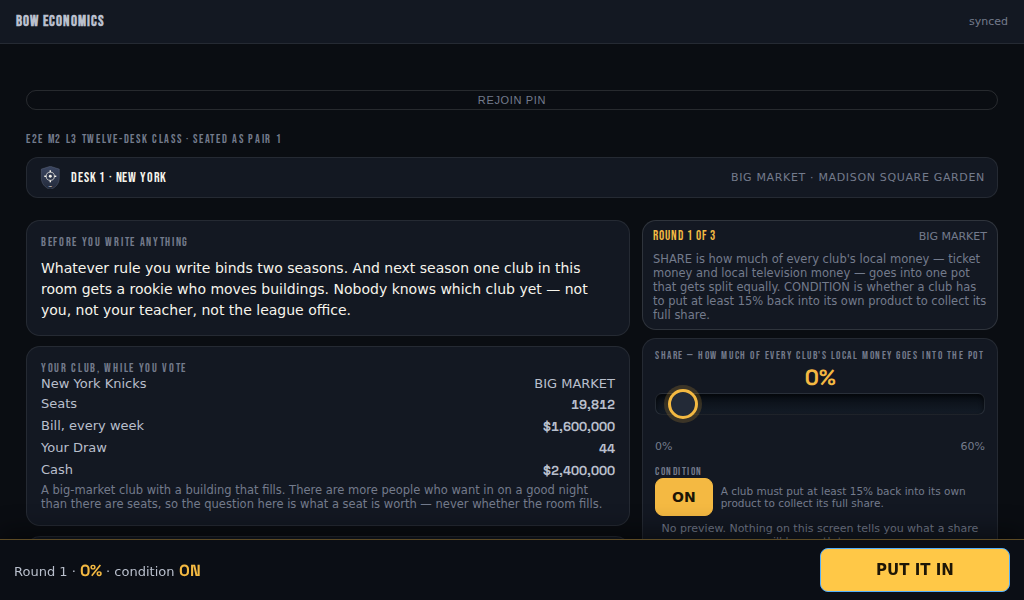
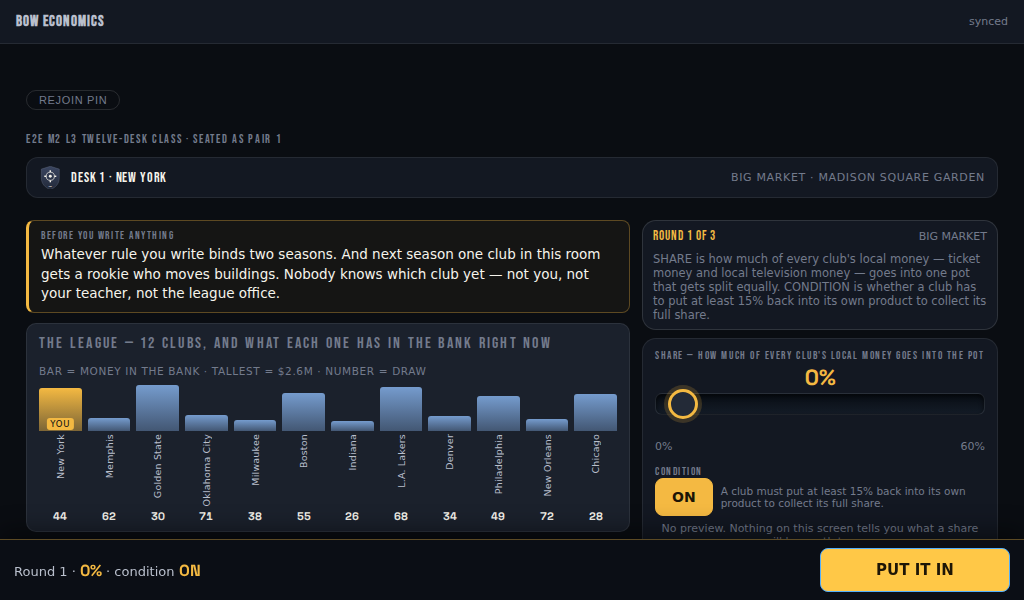
W6/RC3: give L3 the league it is legislating for
The module finale's signature decision — how much of every club's money goes
into a shared pot — was cast while looking at four paragraphs of prose, a
five-row facts table and a slider. The twelve unequal franchises the rule is
ABOUT were behind a collapsed <details>, which in a live class means invisible.
ADOPT_COPY tells the room "the pot is the big markets' money"; nothing on the
screen showed them that.

THE LEAGUE FLOOR now opens the vote screen: every club's opening bank on one
baseline, this desk's own club in gold, full club names rotated so none of them
truncate. Two encodings, both labelled and both straight off state — bar height
is cash, the numeral is Draw — with the tallest bar's value printed so the axis
is not a mystery.

What it does NOT draw is seats. The buildings run 16,867 to 20,917, a 24%
spread that would render as twelve near-identical shapes and teach nothing; the
inequality this room argues about is money, and the opening banks run 5x. Seat
counts would have been decoration pretending to be evidence.

Three defects found and fixed while building it:

- The YOU badge was an extra row on one column only. With the floor bottom-
  aligned that lifted this desk's own club clear of everyone else's baseline and
  drew $2.4M taller than the $2.6M beside it — visual drama misrepresenting
  magnitude, on the student's own club. A marker may never move the thing it
  marks. The badge is now painted inside the track.
[…]

Changed region(s): [[0.0, 0.36, 0.625, 0.87], [0.0312, 0.15, 0.125, 0.18], [0.4688, 0.15, 0.5312, 0.18]]

diff --git a/runtime/src/modules/writeTheRule.ts b/runtime/src/modules/writeTheRule.ts
@@ -213,6 +213,10 @@ export type ClubDef = {
   readonly capacity: number;
   /** BC-3: the season stamp travels with the seat count wherever it prints. */
   readonly capacityNote: string;
+  /** The league's own three-letter code. The league floor draws twelve clubs in
+   *  roughly 44px each; "New York" and "New Orleans" both truncate to "New …"
+   *  there, which is worse than useless in a room that has to tell them apart. */
+  readonly code: string;
   readonly profileId: MarketId;
   readonly startDraw: number;
   readonly startCash: number;
@@ -231,26 +235,26 @@ export type ClubDef = {
  * own numbers, which is the whole point of the seed.
  */
 export const CLUBS: readonly ClubDef[] = [
-  { name: "New York Knicks", short: "New York", building: "Madison Square Garden", capacity: 19_812, capacityNote: "listed basketball capacity · 2025-26", profileId: "new-york", startDraw: 44, startCash: 2_400_000, identityLine: "The biggest market in American sports, and the league's biggest gate — about $193M in gate receipts in 2024-25, a franchise record and the largest in the NBA." },
-  { name: "Memphis Grizzlies", short: "Memphis", building: "FedExForum", capacity: 17_794, capacityNote: "modeled seat count · published figures range 16,667-18,119", profileId: "memphis", startDraw: 62, startCash: 700_000, identityLine: "One of the league's smallest markets. In the leaked 2016-17 league year its local media deal was worth under $10M a year, against about $149M for the Lakers — and it received about $32M in revenue sharing, the most in the league." },
-  { name: "Golden State Warriors", short: "Golden State", building: "Chase Center", capacity: 18_064, capacityNote: "listed basketball capacity · 2025-26", profileId: "golden-state", startDraw: 30, startCash: 2_600_000, identityLine: "Paid for Chase Center itself — about $1.4B, privately financed, opened 2019 — and owns it, so it keeps the concert money and the real estate too. $833M of revenue in 2024-25, the highest in the NBA." },
-  { name: "Oklahoma City Thunder", short: "Oklahoma City", building: "Paycom Center", capacity: 18_203, capacityNote: "listed basketball capacity · 2025-26", profileId: "oklahoma-city", startDraw: 71, startCash: 900_000, identityLine: "One of the league's smallest markets — and the 2025 champions, 4-3 over Indiana." },
-  { name: "Milwaukee Bucks", short: "Milwaukee", building: "Fiserv Forum", capacity: 17_341, capacityNote: "listed basketball capacity · 2025-26", profileId: "memphis", startDraw: 38, startCash: 620_000, identityLine: "In 2015 Wisconsin approved about $250M of public money toward Fiserv Forum under an explicit relocation threat. The Bucks stayed, and won the 2021 title." },
-  { name: "Boston Celtics", short: "Boston", building: "TD Garden", capacity: 19_156, capacityNote: "listed basketball capacity · 2025-26", profileId: "new-york", startDraw: 55, startCash: 2_100_000, identityLine: "In June 2025, a year after the 2024 title, Boston faced a projected salary-and-tax bill reported north of $500M under the second-apron rules — and traded two starters inside 24 hours." },
-  { name: "Indiana Pacers", short: "Indiana", building: "Gainbridge Fieldhouse", capacity: 17_274, capacityNote: "listed basketball capacity · 2025-26", profileId: "memphis", startDraw: 26, startCash: 540_000 },
-  { name: "Los Angeles Lakers", short: "L.A. Lakers", building: "Crypto.com Arena", capacity: 18_997, capacityNote: "listed basketball capacity · 2025-26", profileId: "golden-state", startDraw: 68, startCash: 2_500_000, identityLine: "One of the biggest markets in the league — and it does NOT own its building: AEG owns and operates Crypto.com Arena, and the Lakers are tenants on a lease running to 2041." },
-  { name: "Denver Nuggets", short: "Denver", building: "Ball Arena", capacity: 19_520, capacityNote: "listed basketball capacity · 2025-26", profileId: "oklahoma-city", startDraw: 34, startCash: 810_000 },
-  { name: "Philadelphia 76ers", short: "Philadelphia", building: "Xfinity Mobile Arena", capacity: 20_478, capacityNote: "listed basketball capacity · 2025-26", profileId: "new-york", startDraw: 49, startCash: 1_950_000 },
-  { name: "New Orleans Pelicans", short: "New Orleans", building: "Smoothie King Center", capacity: 16_867, capacityNote: "listed basketball capacity · 2025-26", profileId: "memphis", startDraw: 72, startCash: 660_000 },
-  { name: "Chicago Bulls", short: "Chicago", building: "United Center", capacity: 20_917, capacityNote: "listed basketball capacity · 2025-26", profileId: "new-york", startDraw: 28, startCash: 2_050_000 },
-  { name: "Sacramento Kings", short: "Sacramento", building: "Golden 1 Center", capacity: 17_608, capacityNote: "listed basketball capacity · 2025-26", profileId: "oklahoma-city", startDraw: 58, startCash: 870_000, identityLine: "On May 15, 2013 the league's owners voted 22-8 to deny a sale that would have moved this club to Seattle. Golden 1 Center opened downtown in 2016." },
-  { name: "Toronto Raptors", short: "Toronto", building: "Scotiabank Arena", capacity: 19_800, capacityNote: "listed basketball capacity · 2025-26", profileId: "golden-state", startDraw: 40, startCash: 2_200_000 },
-  { name: "Utah Jazz", short: "Utah", building: "Delta Center", capacity: 18_206, capacityNote: "listed basketball capacity · 2025-26", profileId: "oklahoma-city", startDraw: 65, startCash: 840_000 },
-  { name: "Miami Heat", short: "Miami", building: "Kaseya Center", capacity: 19_600, capacityNote: "listed basketball capacity · 2025-26", profileId: "golden-state", startDraw: 33, startCash: 2_150_000 },
-  { name: "Cleveland Cavaliers", short: "Cleveland", building: "Rocket Arena", capacity: 19_432, capacityNote: "listed basketball capacity · 2025-26", profileId: "memphis", startDraw: 51, startCash: 700_000, identityLine: "LeBron James left in 2010 and this club's ticket demand and franchise value cratered; his July 2014 return sold out the season-ticket base within hours." },
-  { name: "Portland Trail Blazers", short: "Portland", building: "Moda Center", capacity: 19_393, capacityNote: "listed basketball capacity · 2025-26", profileId: "oklahoma-city", startDraw: 36, startCash: 790_000 },
-  { name: "Orlando Magic", short: "Orlando", building: "Kia Center", capacity: 18_846, capacityNote: "listed basketball capacity · 2025-26", profileId: "memphis", startDraw: 60, startCash: 680_000 },
-  { name: "Detroit Pistons", short: "Detroit", building: "Little Caesars Arena", capacity: 20_332, capacityNote: "listed basketball capacity · 2025-26", profileId: "new-york", startDraw: 31, startCash: 1_900_000 },
+  { name: "New York Knicks", code: "NYK", short: "New York", building: "Madison Square Garden", capacity: 19_812, capacityNote: "listed basketball capacity · 2025-26", profileId: "new-york", startDraw: 44, startCash: 2_400_000, identityLine: "The biggest market in American sports, and the league's biggest gate — about $193M in gate receipts in 2024-25, a franchise record and the largest in the NBA." },
+  { name: "Memphis Grizzlies", code: "MEM", short: "Memphis", building: "FedExForum", capacity: 17_794, capacityNote: "modeled seat count · published figures range 16,667-18,119", profileId: "memphis", startDraw: 62, startCash: 700_000, identityLine: "One of the league's smallest markets. In the leaked 2016-17 league year its local media deal was worth under $10M a year, against about $149M for the Lakers — and it received about $32M in revenue sharing, the most in the league." },
+  { name: "Golden State Warriors", code: "GSW", short: "Golden State", building: "Chase Center", capacity: 18_064, capacityNote: "listed basketball capacity · 2025-26", profileId: "golden-state", startDraw: 30, startCash: 2_600_000, identityLine: "Paid for Chase Center itself — about $1.4B, privately financed, opened 2019 — and owns it, so it keeps the concert money and the real estate too. $833M of revenue in 2024-25, the highest in the NBA." },
+  { name: "Oklahoma City Thunder", code: "OKC", short: "Oklahoma City", building: "Paycom Center", capacity: 18_203, capacityNote: "listed basketball capacity · 2025-26", profileId: "oklahoma-city", startDraw: 71, startCash: 900_000, identityLine: "One of the league's smallest markets — and the 2025 champions, 4-3 over Indiana." },
+  { name: "Milwaukee Bucks", code: "MIL", short: "Milwaukee", building: "Fiserv Forum", capacity: 17_341, capacityNote: "listed basketball capacity · 2025-26", profileId: "memphis", startDraw: 38, startCash: 620_000, identityLine: "In 2015 Wisconsin approved about $250M of public money toward Fiserv Forum under an explicit relocation threat. The Bucks stayed, and won the 2021 title." },
+  { name: "Boston Celtics", code: "BOS", short: "Boston", building: "TD Garden", capacity: 19_156, capacityNote: "listed basketball capacity · 2025-26", profileId: "new-york", startDraw: 55, startCash: 2_100_000, identityLine: "In June 2025, a year after the 2024 title, Boston faced a projected salary-and-tax bill reported north of $500M under the second-apron rules — and traded two starters inside 24 hours." },
+  { name: "Indiana Pacers", code: "IND", short: "Indiana", building: "Gainbridge Fieldhouse", capacity: 17_274, capacityNote: "listed basketball capacity · 2025-26", profileId: "memphis", startDraw: 26, startCash: 540_000 },
+  { name: "Los Angeles Lakers", code: "LAL", short: "L.A. Lakers", building: "Crypto.com Arena", capacity: 18_997, capacityNote: "listed basketball capacity · 2025-26", profileId: "golden-state", startDraw: 68, startCash: 2_500_000, identityLine: "One of the biggest markets in the league — and it does NOT own its building: AEG owns and operates Crypto.com Arena, and the Lakers are tenants on a lease running to 2041." },
+  { name: "Denver Nuggets", code: "DEN", short: "Denver", building: "Ball Arena", capacity: 19_520, capacityNote: "listed basketball capacity · 2025-26", profileId: "oklahoma-city", startDraw: 34, startCash: 810_000 },
+  { name: "Philadelphia 76ers", code: "PHI", short: "Philadelphia", building: "Xfinity Mobile Arena", capacity: 20_478, capacityNote: "listed basketball capacity · 2025-26", profileId: "new-york", startDraw: 49, startCash: 1_950_000 },
+  { name: "New Orleans Pelicans", code: "NOP", short: "New Orleans", building: "Smoothie King Center", capacity: 16_867, capacityNote: "listed basketball capacity · 2025-26", profileId: "memphis", startDraw: 72, startCash: 660_000 },
+  { name: "Chicago Bulls", code: "CHI", short: "Chicago", building: "United Center", capacity: 20_917, capacityNote: "listed basketball capacity · 2025-26", profileId: "new-york", startDraw: 28, startCash: 2_050_000 },
+  { name: "Sacramento Kings", code: "SAC", short: "Sacramento", building: "Golden 1 Center", capacity: 17_608, capacityNote: "listed basketball capacity · 2025-26", profileId: "oklahoma-city", startDraw: 58, startCash: 870_000, identityLine: "On May 15, 2013 the league's owners voted 22-8 to deny a sale that would have moved this club to Seattle. Golden 1 Center opened downtown in 2016." },
+  { name: "Toronto Raptors", code: "TOR", short: "Toronto", building: "Scotiabank Arena", capacity: 19_800, capacityNote: "listed basketball capacity · 2025-26", profileId: "golden-state", startDraw: 40, startCash: 2_200_000 },
+  { name: "Utah Jazz", code: "UTA", short: "Utah", building: "Delta Center", capacity: 18_206, capacityNote: "listed basketball capacity · 2025-26", profileId: "oklahoma-city", startDraw: 65, startCash: 840_000 },
+  { name: "Miami Heat", code: "MIA", short: "Miami", building: "Kaseya Center", capacity: 19_600, capacityNote: "listed basketball capacity · 2025-26", profileId: "golden-state", startDraw: 33, startCash: 2_150_000 },
+  { name: "Cleveland Cavaliers", code: "CLE", short: "Cleveland", building: "Rocket Arena", capacity: 19_432, capacityNote: "listed basketball capacity · 2025-26", profileId: "memphis", startDraw: 51, startCash: 700_000, identityLine: "LeBron James left in 2010 and this club's ticket demand and franchise value cratered; his July 2014 return sold out the season-ticket base within hours." },
+  { name: "Portland Trail Blazers", code: "POR", short: "Portland", building: "Moda Center", capacity: 19_393, capacityNote: "listed basketball capacity · 2025-26", profileId: "oklahoma-city", startDraw: 36, startCash: 790_000 },
+  { name: "Orlando Magic", code: "ORL", short: "Orlando", building: "Kia Center", capacity: 18_846, capacityNote: "listed basketball capacity · 2025-26", profileId: "memphis", startDraw: 60, startCash: 680_000 },
+  { name: "Detroit Pistons", code: "DET", short: "Detroit", building: "Little Caesars Arena", capacity: 20_332, capacityNote: "listed basketball capacity · 2025-26", profileId: "new-york", startDraw: 31, startCash: 1_900_000 },
 ];
 
 /** The most desks this league can seat. Always leaves at least two league-office clubs. */
@@ -3187,13 +3191,36 @@ function clubCard(state: WriteRuleState, slot: number) {
   };
 }
 
-const leagueTable = (state: WriteRuleState) =>
+/**
+ * THE LEAGUE, as a thing the room can see.
+ *
+ * Every call site of this is PRE-SEASON — lobby, hook, the three voting rounds,
+ * and the adoption screen. Nothing has settled yet at any of them, so every
+ * figure here is opening state: it cannot carry another desk's decision, and
+ * there is no leak to weigh. The moment a week settles, `cash` and `draw` become
+ * decision-derived and this table stops being sent (the season view never asks
+ * for it). If a future arm wants the league DURING the season it needs its own
+ * function and its own privacy argument, not this one.
+ *
+ * Why cash and not seats: the buildings are 16,867 to 20,917 seats — a 24%
+ * spread that would draw as twelve near-identical shapes and say nothing true.
+ * The inequality this room is legislating about is MONEY (ADOPT_COPY: "the pot
+ * is the big markets' money"), and the opening banks run 540k to 2.6M. Drawing
+ * the real 5x gap is the honest picture; drawing the seat counts would be
+ * decoration pretending to be evidence.
+ */
+const leagueTable = (state: WriteRuleState, viewerSlot: number) =>
   state.clubs.slice(0, state.leagueSize).map((c) => ({
     deskNumber: c.deskNumber,
     short: defOf(c).short,
+    code: defOf(c).code,
+    building: defOf(c).building,
+    capacity: defOf(c).capacity,
     sizeLabel: profileOf(c).sizeLabel,
     draw: c.draw,
+    cash: c.cash,
     live: c.seatId !== null,
+    you: c.slot === viewerSlot,
   }));
 
 function slateFor(state: WriteRuleState, slot: number) {
@@ -3724,7 +3751,7 @@ export const writeTheRuleModule: LessonModule<WriteRuleState> = {
     };
     switch (phase) {
       case "LOBBY":
-        return tag({ ...base, message: LOBBY_COPY, houseRules: HOUSE_RULES, league: leagueTable(state) });
+        return tag({ ...base, message: LOBBY_COPY, houseRules: HOUSE_RULES, league: leagueTable(state, slot) });
       case "HOOK":
         return tag({
           ...base,
@@ -3733,7 +3760,7 @@ export const writeTheRuleModule: LessonModule<WriteRuleState> = {
           pick: club.hookPick,
           revealed: state.hookRevealed,
           ...(state.hookRevealed ? { revealCopy: HOOK_REVEAL_COPY, split: agg.hookSplit } : {}),
-          league: leagueTable(state),
+          league: leagueTable(state, slot),
         });
       case "PLAY": {
         if (state.stage === "rounds") {
@@ -3766,7 +3793,7 @@ export const writeTheRuleModule: LessonModule<WriteRuleState> = {
               club.proposal === null
                 ? "You have not put a number in this round. A desk with no number in has ABSTAINED: it is not counted in the room's middle number, and it cannot be inside the ten-point band — so the two-thirds test counts it as a desk that did not back the rule."
                 : null,
-            league: leagueTable(state),
+            league: leagueTable(state, slot),
           });
         }
         if (state.stage === "adopted") {
@@ -3775,7 +3802,7 @@ export const writeTheRuleModule: LessonModule<WriteRuleState> = {
             mode: "adopted",
             adoption: adoptionLineClaimed(agg).text,
             seasonCopy: seasonCopyFor(state.adopted?.how),
-            league: leagueTable(state),
+            league: leagueTable(state, slot),
           });
         }
         const week = Math.min(state.weekIndex, WEEK_COUNT - 1);

diff --git a/runtime/src/client/play/main.ts b/runtime/src/client/play/main.ts
@@ -4785,21 +4785,81 @@ function wrBooks(view: Record<string, unknown>): string {
     </div>`;
 }
 
-function wrLeagueTable(view: Record<string, unknown>): string {
-  const league = (view["league"] as { deskNumber: number; short: string; sizeLabel: string; draw: number; live: boolean }[]) ?? [];
+/** Money at a glance: $2.4M, $540K — the bar carries the magnitude, this labels it. */
+function wrShortMoney(n: number): string {
+  const v = Math.abs(n);
+  if (v >= 1_000_000) return `$${(n / 1_000_000).toFixed(1)}M`;
+  if (v >= 1_000) return `$${Math.round(n / 1_000)}K`;
+  return `$${Math.round(n)}`;
+}
+
+type WRLeagueClub = {
+  deskNumber: number;
+  short: string;
+  code: string;
+  building: string;
+  capacity: number;
+  sizeLabel: string;
+  draw: number;
+  cash: number;
+  live: boolean;
+  you: boolean;
+};
+
+/**
+ * THE LEAGUE FLOOR — the room this desk is legislating for, drawn.
+ *
+ * This replaced a collapsed `<details>` list of club names. A student about to
+ * vote on how much of every club's money goes into a shared pot was being asked
+ * to do it while looking at four paragraphs of text and a slider; the twelve
+ * unequal franchises the rule is ABOUT were one click away and, in a live class,
+ * therefore invisible. ADOPT_COPY tells the room "the pot is the big markets'
+ * money" — this is that sentence as a picture, from the room's own opening books.
+ *
+ * Two encodings, both labelled in the header, both straight off state:
+ *   - column height = cash in the bank, on a shared baseline and a shared max,
+ *     so the 5x gap between a big market and a small one is drawn at 5x;
+ *   - the numeral under each name = Draw.
+ * Nothing here is scaled, curved, or dramatised. The gap on screen is the gap
+ * in the model.
+ *
+ * Order is desk order, never wealth order: this lesson deliberately refuses to
+ * rank its clubs (see `applyRookie` — "determined by the model, never shown as a
+ * ranking"), and a sorted floor would hand the room a league table it never
+ * earned.
+ */
+function wrLeagueFloor(view: Record<string, unknown>, opts?: { compact?: boolean }): string {
+  const league = (view["league"] as WRLeagueClub[]) ?? [];
   if (league.length === 0) return "";
+  const max = Math.max(1, ...league.map((c) => c.cash));
+  const compact = opts?.compact === true;
   return `
-    <details class="fa-rules" style="margin-top:12px;">
-      <summary>Every club in the league</summary>
-      <div class="fh-slate">
+    <div class="wr-league${compact ? " compact" : ""}" id="wrLeague">
+      <div class="wr-league-head">
+        <span class="eyebrow">THE LEAGUE — ${league.length} clubs, and what each one has in the bank right now</span>
+        <span class="wr-league-legend">bar = money in the bank · tallest = ${wrShortMoney(max)} · number = Draw</span>
+      </div>
+      <div class="wr-league-floor">
         ${league
-          .map(
-            (c) =>
-              `<div class="fh-slate-row"><span>${escapeHtml(c.short)}</span><span>${escapeHtml(c.sizeLabel)}</span><span>${c.live ? `Desk ${c.deskNumber}` : "league office"}</span><span class="numeric">Draw ${c.draw}</span></div>`,
-          )
+          .map((c) => {
+            const h = Math.max(3, Math.round((c.cash / max) * 100));
+            const title = `${c.short} (${c.code}) · ${c.building} · ${c.capacity.toLocaleString()} seats · ${c.sizeLabel} · ${wrShortMoney(c.cash)} in the bank · Draw ${c.draw}`;
+            // Every column carries the SAME four rows in the same order, so every
+            // bar sits on one baseline and the drawn heights are comparable. The
+            // first version made the YOU badge a fifth row on one column only:
+            // with the floor bottom-aligned, that lifted this desk's own club
+            // clear of everyone else's baseline and drew $2.4M taller than the
+            // $2.6M beside it. A marker may never move the thing it marks.
+            return `<div class="wr-club${c.you ? " is-you" : ""}${c.live ? "" : " is-office"}" data-wr-club="${c.deskNumber}" data-cash="${c.cash}" title="${escapeHtml(title)}">
+              <div class="wr-club-cash numeric">${wrShortMoney(c.cash)}</div>
+              <div class="wr-club-track"><div class="wr-club-bar" style="height:${h}%"></div>${c.you ? `<div class="wr-club-you">YOU</div>` : ""}</div>
+              <div class="wr-club-name" data-code="${escapeHtml(c.code)}"><span>${escapeHtml(c.short)}</span></div>
+              <div class="wr-club-draw numeric">${c.draw}</div>
+            </div>`;
+          })
           .join("")}
       </div>
-    </details>`;
+    </div>`;
 }
 
 function wrHistogramHtml(h: WRHistogram | null, held: boolean, heldCopy: string, band: number): string {
@@ -4961,7 +5021,7 @@ function renderWriteRule(s: SessionInfo, view: Record<string, unknown>): void {
           <summary>How today works</summary>
           <ul>${((view["houseRules"] as string[]) ?? []).map((r) => `<li>${escapeHtml(r)}</li>`).join("")}</ul>
         </details>
-        ${wrLeagueTable(view)}
+        ${wrLeagueFloor(view)}
         <div class="banner" style="margin-top:12px;">${escapeHtml(String(view["horizonLine"] ?? ""))}</div>`;
       return;
 
@@ -5216,11 +5276,18 @@ function renderWRRounds(view: Record<string, unknown>): void {
   $("gameBody").innerHTML = `
     <div id="wrRoundsRoot" class="hl-decide">
       <div class="hl-span">${wrDeskHeader(view)}</div>
+      <!-- The veil reads as a league announcement rather than a card: a gold-
+           ruled band, not a padded panel. That is ~50px cheaper, which is what
+           buys the league floor its place above a 1024x600 fold on the same
+           screen. It stays inside the left column on purpose — spanning both
+           columns pushed the CONDITION control under the commit bar, which the
+           occlusion probe caught. -->
       <div class="hl-col-context">
-        <div class="panel" id="wrVeil" style="padding:14px;">
-          <div class="eyebrow" style="font-size:12px;">Before you write anything</div>
-          <p style="margin:8px 0 0; font-size:14px; line-height:1.5; color:var(--ink-primary);">${escapeHtml(String(view["veil"] ?? ""))}</p>
+        <div class="wr-veil-band" id="wrVeil">
+          <span class="eyebrow">Before you write anything</span>
+          <p>${escapeHtml(String(view["veil"] ?? ""))}</p>
         </div>
+        ${wrLeagueFloor(view, { compact: true })}
         <div class="panel" style="padding:14px; margin-top:10px;">
           <div class="eyebrow" style="font-size:12px;">Your club, while you vote</div>
           <div class="fh-market-facts">
@@ -5231,6 +5298,7 @@ function renderWRRounds(view: Record<string, unknown>): void {
             <div><span>Cash</span><span class="numeric">${money(Number(view["cash"] ?? 0))}</span></div>
           </div>
           <div class="hl-give-note">${escapeHtml(String(view["plainLine"] ?? ""))}</div>
+          ${view["identityLine"] ? `<p class="hl-identity">${escapeHtml(String(view["identityLine"]))}</p>` : ""}
         </div>
         ${
           !sealed && view["abstainNote"]

diff --git a/runtime/src/client/shared/theme.css b/runtime/src/client/shared/theme.css
@@ -2879,3 +2879,50 @@ html:not([data-module="m2"]) .hl-decide > .hl-col-context .fh-sellout { padding:
 .wr-rail { margin-top: 8px; }
 .wr-rail > span { display: block; font-size: 10px; letter-spacing: .1em; text-transform: uppercase; color: var(--accent-gold); }
 .wr-rail > p { margin: 2px 0 0; font-size: 13px; line-height: 1.45; color: var(--ink-primary); }
+
+/* ---------------------------------------------------------------- L3 · THE LEAGUE FLOOR ---
+   The twelve unequal franchises the rule is about, on one baseline. Column
+   height is cash and nothing else, so the drawn gap is the modeled gap; the
+   track is a fixed height and the bar a percentage of it, which is what keeps
+   that true when the strip is compacted for the vote screen's fold budget. */
+.wr-league { border: 1px solid rgba(255,255,255,0.08); border-radius: 10px; padding: 10px 12px 8px; background: var(--surface-card); }
+.wr-league-head { display: flex; justify-content: space-between; align-items: baseline; gap: 12px; flex-wrap: wrap; margin-bottom: 8px; }
+.wr-league-legend { font-size: 10.5px; letter-spacing: .06em; text-transform: uppercase; color: var(--ink-muted); white-space: nowrap; }
+.wr-league-floor { display: flex; align-items: flex-end; gap: 6px; }
+.wr-club { flex: 1 1 0; min-width: 0; display: flex; flex-direction: column; align-items: center; gap: 3px; position: relative; }
+.wr-club-cash { font-size: 10.5px; color: var(--ink-muted); white-space: nowrap; }
+.wr-club-track { width: 100%; height: 74px; display: flex; align-items: flex-end; position: relative; }
+.wr-league.compact .wr-club-track { height: 46px; }
+.wr-club-bar { width: 100%; border-radius: 3px 3px 0 0; background: linear-gradient(180deg, rgba(122,162,214,0.95), rgba(122,162,214,0.42)); }
+/* Twelve clubs share the width of one column of a Chromebook screen: about
+   44px each. Horizontal names truncated so hard that New York and New Orleans
+   both read "New …", which is worse than no label in a room that has to tell
+   them apart. Rotated, every name is printed in full and none of them collide.
+   Three-letter league codes were the other candidate and were rejected: a
+   student who does not follow the league cannot read NOP, and knowing the
+   league may never be a prerequisite for the economics. */
+.wr-club-name { height: 80px; display: flex; align-items: flex-start; justify-content: center; }
+.wr-club-name > span { writing-mode: vertical-rl; transform: rotate(180deg); font-size: 10px; letter-spacing: .02em; color: var(--ink-secondary); white-space: nowrap; }
+.wr-club-draw { font-size: 11px; color: var(--ink-primary); }
+.wr-club.is-office .wr-club-bar { background: linear-gradient(180deg, rgba(148,158,176,0.6), rgba(148,158,176,0.22)); }
+.wr-club.is-office .wr-club-name { color: var(--ink-muted); }
+.wr-club.is-you .wr-club-bar { background: linear-gradient(180deg, var(--accent-gold), rgba(244,185,66,0.45)); }
+.wr-club.is-you .wr-club-name, .wr-club.is-you .wr-club-cash { color: var(--accent-gold); }
+.wr-club-you { position: absolute; left: 50%; transform: translateX(-50%); bottom: 1px; font-size: 8.5px; letter-spacing: .1em; color: var(--surface-void); background: var(--accent-gold); border-radius: 3px; padding: 0 3px; line-height: 12px; }
+@media (max-width: 620px) {
+  .wr-league-floor { gap: 3px; }
+  .wr-club-track { height: 52px; }
+  .wr-league.compact .wr-club-track { height: 38px; }
+  .wr-club-cash { display: none; }
+  .wr-club-name { height: 72px; }
+  .wr-club-name > span { font-size: 9px; }
+}
+.wr-veil-band { display: flex; flex-direction: column; gap: 3px; padding: 8px 12px; margin-bottom: 10px; border: 1px solid rgba(244,185,66,0.32); border-left: 3px solid var(--accent-gold); border-radius: 8px; background: rgba(244,185,66,0.05); }
+.wr-veil-band > .eyebrow { font-size: 11px; }
+.wr-veil-band > p { margin: 0; font-size: 13.5px; line-height: 1.45; color: var(--ink-primary); }
+/* The vote screen's strip trades its per-club cash numerals for fold budget:
+   the bar carries the magnitude, the header names the units, and the numerals
+   are still there on the lobby floor where there is room for them. */
+.wr-league.compact .wr-club-cash { display: none; }
+.wr-league.compact .wr-club-name { height: 72px; }
+.wr-league.compact .wr-club-name > span { font-size: 9.5px; }

diff --git a/runtime/src/test/writeTheRule.test.ts b/runtime/src/test/writeTheRule.test.ts
@@ -784,3 +784,58 @@ test("ADOPT_BAND, the dial and the two-thirds rule are the numbers the copy prom
   assert.equal(ROUND_COUNT, 3);
   assert.equal(WEEK_COUNT, 3);
 });
+
+/* ------------------------------------------------------- the league floor -- */
+
+/**
+ * W6/RC3 — the room is asked to tax itself while looking at how unequal it is.
+ *
+ * The league strip on the vote screen draws every club's opening bank on one
+ * baseline. That is only safe because every place it is sent is PRE-SEASON: no
+ * week has settled, so no figure in it can carry another desk's decision. The
+ * season view must never ask for it, and this test is what stops a later arm
+ * from adding `league:` to a settled-week payload without noticing that it has
+ * just published eleven other desks' outcomes to a private screen.
+ */
+test("W6/RC3: the league floor carries what it draws, and never survives into the season", () => {
+  const desks = 9;
+  const seated = withDesks(desks);
+
+  for (const phase of ["LOBBY", "HOOK"] as const) {
+    const v = writeTheRuleModule.studentView(seated, "seat-3", phase) as Record<string, unknown>;
+    assert.ok(Array.isArray(v["league"]), `${phase} must carry the league`);
+  }
+
+  const rounds = writeTheRuleModule.studentView(seated, "seat-3", "PLAY") as Record<string, unknown>;
+  const league = rounds["league"] as { short: string; code: string; cash: number; capacity: number; draw: number; you: boolean }[];
+  assert.ok(Array.isArray(league) && league.length === seated.leagueSize, "the vote screen must carry every club in the league");
+  assert.equal(league.filter((c) => c.you).length, 1, "exactly one club on the floor is this desk's own");
+  for (const c of league) {
+    assert.equal(typeof c.cash, "number", `${c.short} has no bank to draw`);
+    assert.ok(c.cash > 0 && Number.isFinite(c.cash), `${c.short} drew a bar off a nonsense number`);
+    assert.ok(c.code.length >= 2 && c.code.length <= 4, `${c.short} has no usable league code`);
+    assert.ok(c.capacity > 1000, `${c.short} has no building`);
+  }
+  // The gap is worth drawing: if every club opened with the same money the strip
+  // would be twelve identical bars saying nothing, and this lesson's whole
+  // argument ("the pot is the big markets' money") would have no picture.
+  const cashes = league.map((c) => c.cash);
+  assert.ok(Math.max(...cashes) / Math.min(...cashes) >= 2, "the league floor is drawing an equality this lesson does not have");
+
+  // Codes must be unique or two columns are indistinguishable.
+  const codes = new Set(league.map((c) => c.code));
+  assert.equal(codes.size, league.length, "two clubs share a league code");
+
+  // PRE-SEASON ONLY. Once a week settles, cash is a decision outcome.
+  const adopted = toAdopted(seated, [20, 25, 30]);
+  const adoptedView = writeTheRuleModule.studentView(adopted, "seat-3", "PLAY") as Record<string, unknown>;
+  assert.ok(Array.isArray(adoptedView["league"]), "the adoption screen is still pre-season");
+
+  const season = playSeason(toSeason(adopted));
+  const settled = writeTheRuleModule.studentView(season, "seat-3", "PLAY") as Record<string, unknown>;
+  assert.equal(
+    settled["league"],
+    undefined,
+    "a settled-week view carried the league table — that publishes every other desk's cash outcome to a private screen",
+  );
+});
